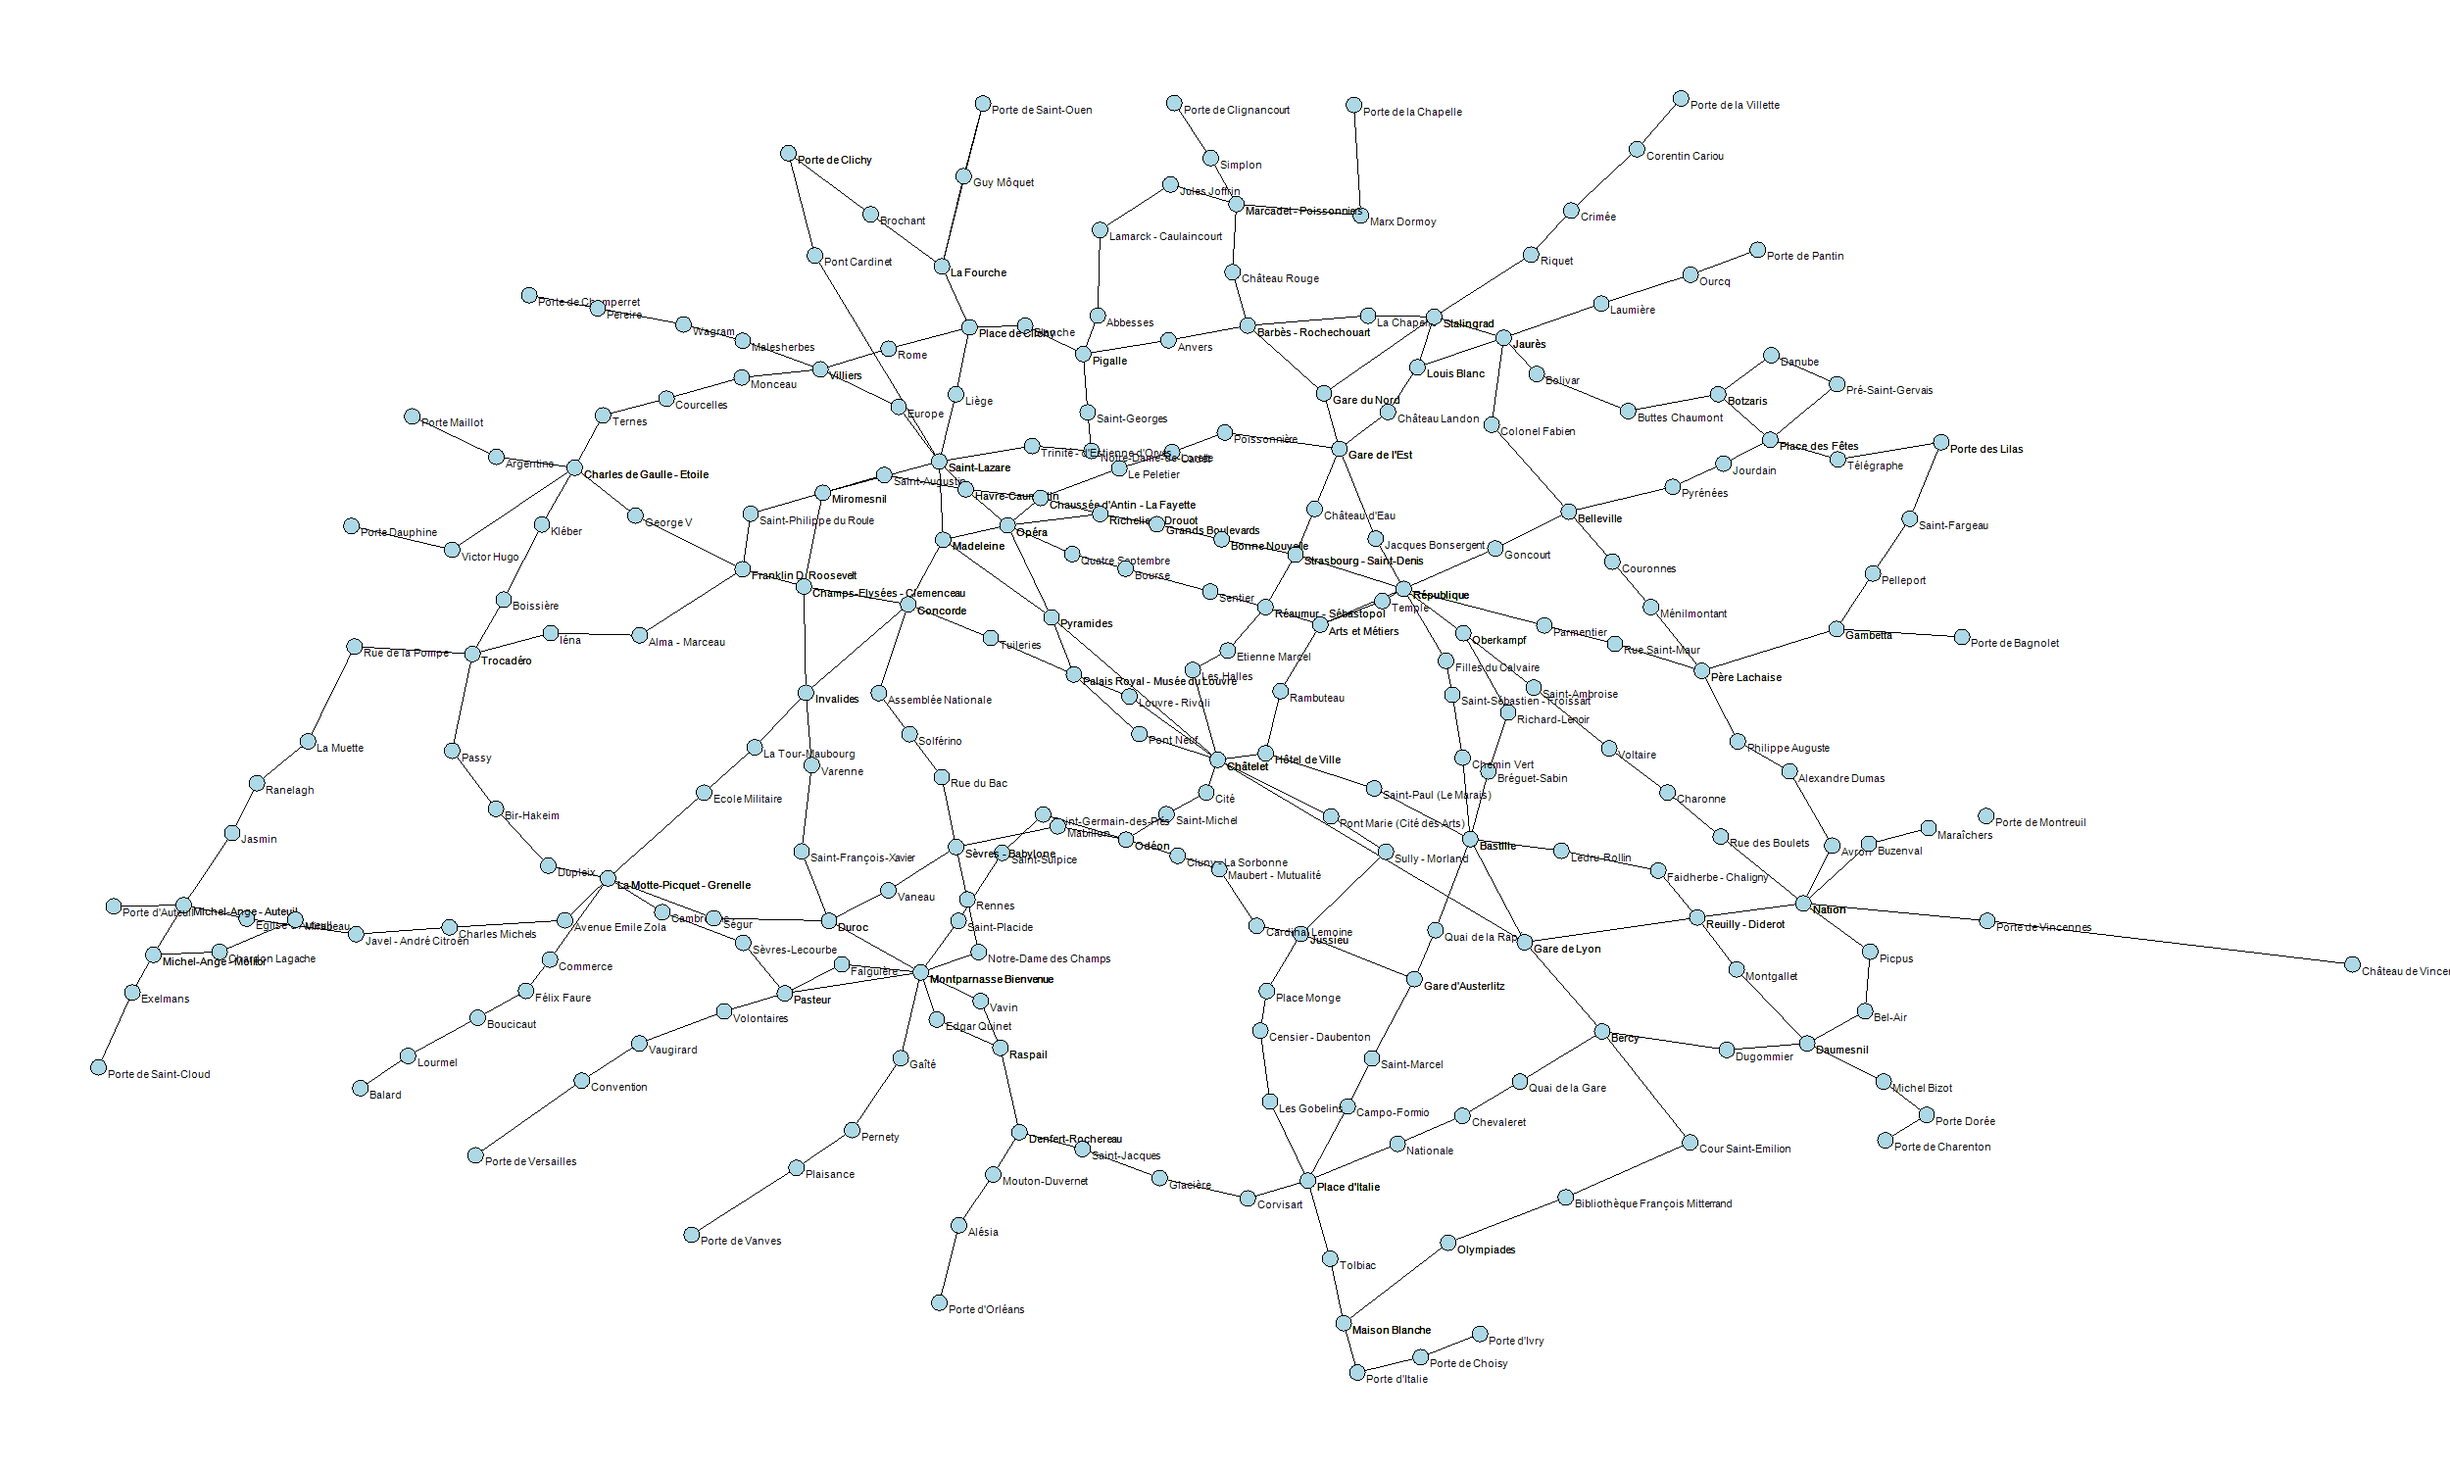
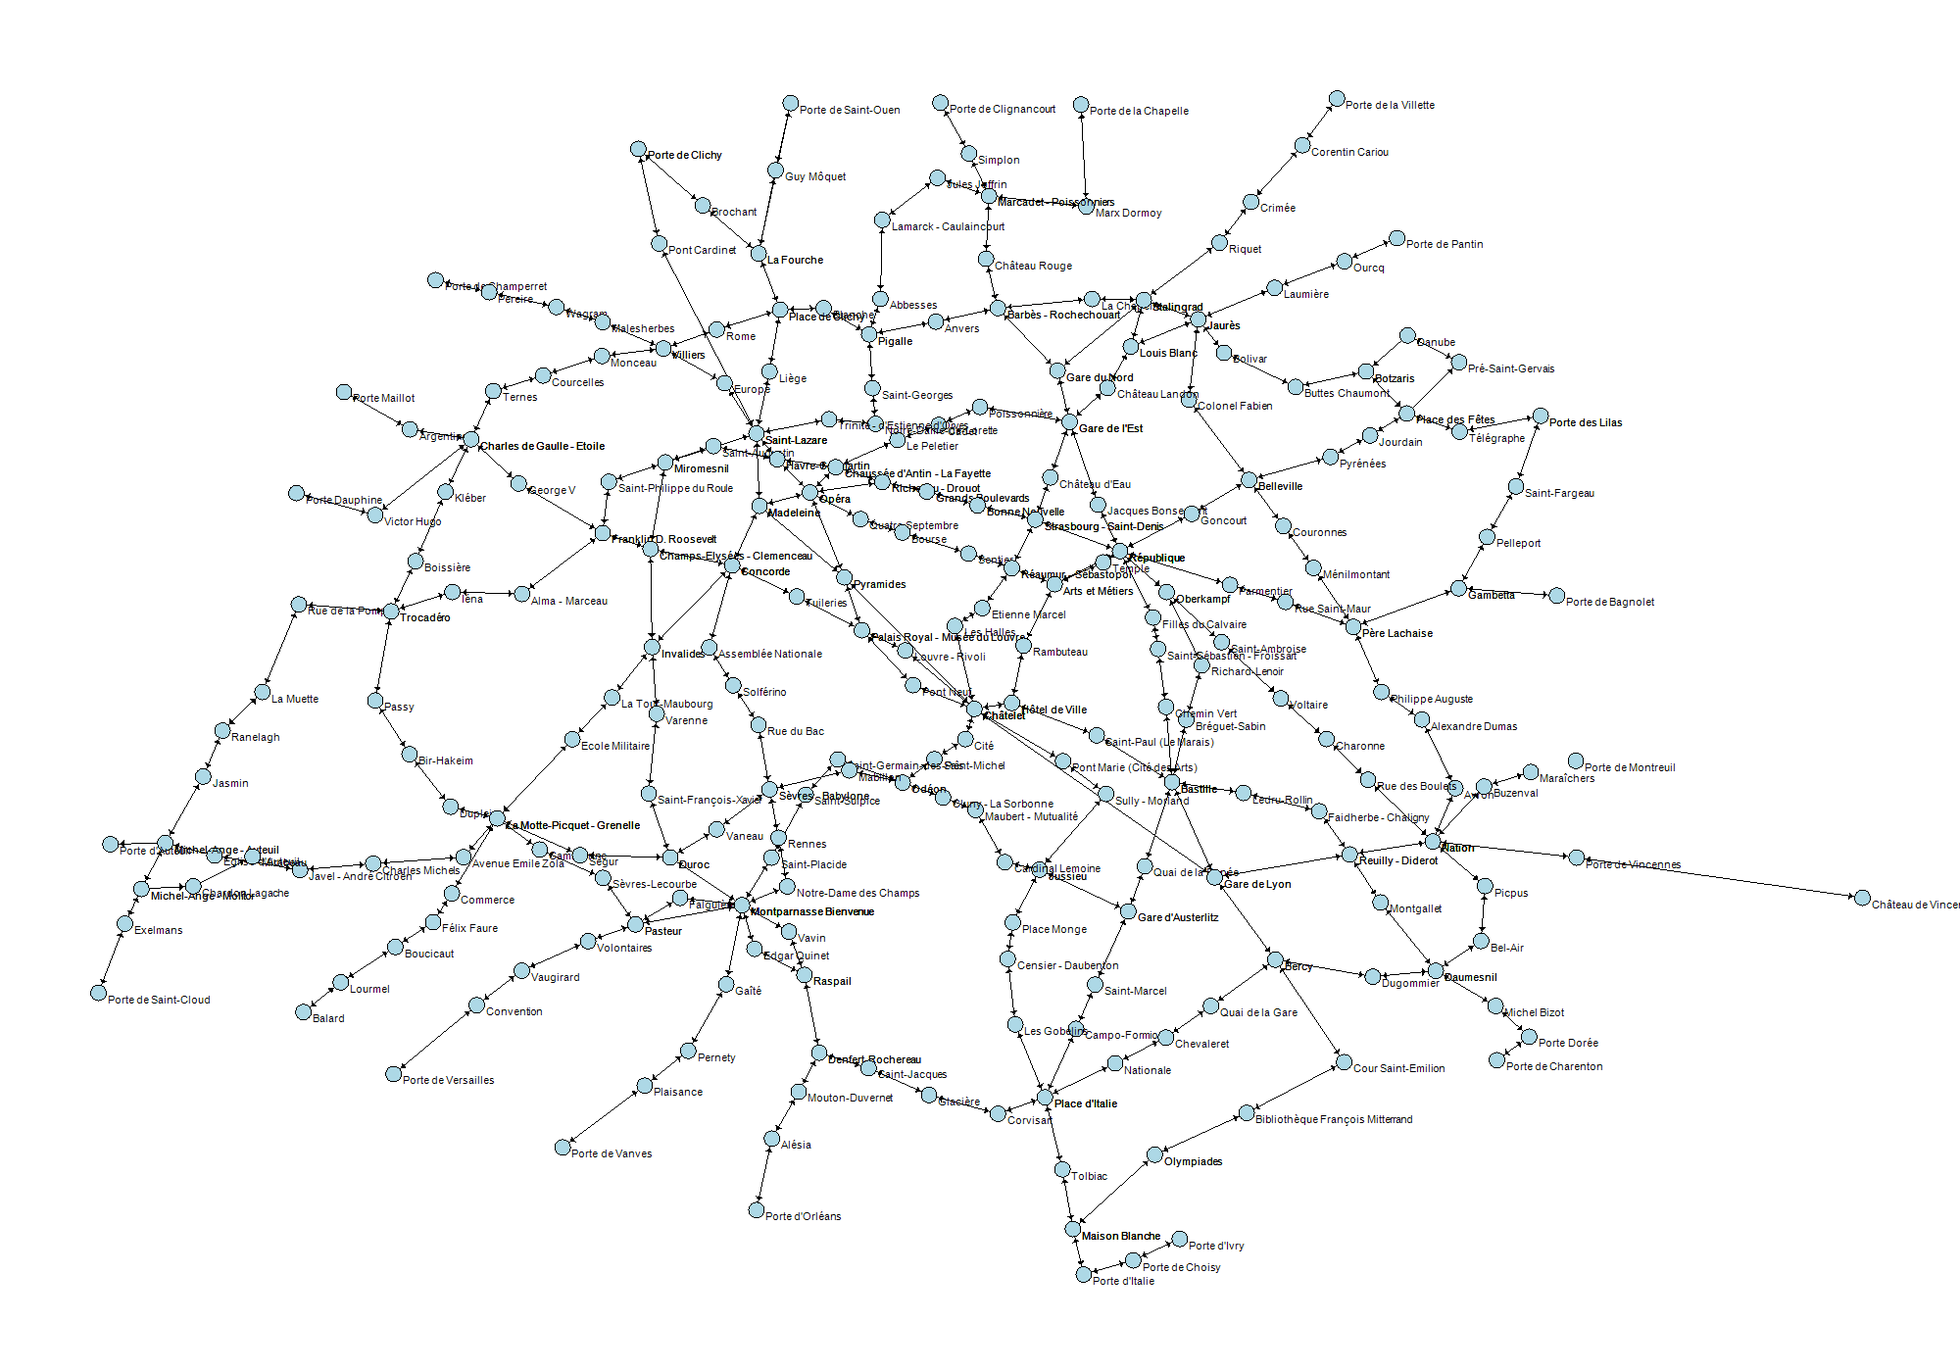
Gestion de l'orientation des graphes (cas de la ligne 7bis / 10)

diff --git a/PSI_RENDU1/GrapheVisualisation.cs b/PSI_RENDU1/GrapheVisualisation.cs
@@ -4,12 +4,13 @@ using System.Diagnostics;
 using System.Drawing;
 using System.Linq;
 using System.Windows.Forms;
+using System.Drawing.Drawing2D;
 namespace PSI_RENDU1
 {
 
-    public class GrapheVisualisation
+   public class GrapheVisualisation
 {
-    public static void GenererImageGraphe<T>(Graphe<T> graphe, string outputPath = "graphe.png", int width = 2500, int height = 1500)
+    public static void GenererImageGraphe<T>(Graphe<T> graphe, string outputPath = "graphe.png", int width = 2000, int height = 1400)
     {
         try
         {
@@ -31,19 +32,20 @@ namespace PSI_RENDU1
             double minLong = longitudes.Min();
             double maxLong = longitudes.Max();
 
-            // 🧭 Marges autour du graphe
             float marginX = 100;
             float marginY = 100;
 
             double scaleX = (width - 2 * marginX) / (maxLong - minLong);
             double scaleY = (height - 2 * marginY) / (maxLat - minLat);
+            double offsetX = (width - (maxLong - minLong) * scaleX) / 2;
+            double offsetY = (height - (maxLat - minLat) * scaleY) / 2;
 
             Dictionary<T, PointF> positions = new Dictionary<T, PointF>();
 
             foreach (var noeud in graphe.Noeuds.Values)
             {
-                float x = marginX + (float)((noeud.Longitude - minLong) * scaleX);
-                float y = marginY + (float)((maxLat - noeud.Latitude) * scaleY);
+                float x = (float)((noeud.Longitude - minLong) * scaleX + offsetX);
+                float y = (float)((maxLat - noeud.Latitude) * scaleY + offsetY);
                 positions[noeud.Id] = new PointF(x, y);
             }
 
@@ -52,6 +54,28 @@ namespace PSI_RENDU1
                 PointF p1 = positions[lien.Source.Id];
                 PointF p2 = positions[lien.Destination.Id];
                 g.DrawLine(lienPen, p1, p2);
+
+                if (graphe.EstOriente)
+                {
+                    float dx = p2.X - p1.X;
+                    float dy = p2.Y - p1.Y;
+                    float longueur = (float)Math.Sqrt(dx * dx + dy * dy);
+                    if (longueur == 0) continue;
+
+                    float ux = dx / longueur;
+                    float uy = dy / longueur;
+
+                    float arrowX = p2.X - ux * 10;
+                    float arrowY = p2.Y - uy * 10;
+
+                    PointF[] fleche =
+                    {
+                        new PointF(arrowX, arrowY),
+                        new PointF(arrowX - uy * 4 - ux * 4, arrowY + ux * 4 - uy * 4),
+                        new PointF(arrowX + uy * 4 - ux * 4, arrowY - ux * 4 - uy * 4)
+                    };
+                    g.FillPolygon(Brushes.Black, fleche);
+                }
             }
 
             foreach (var noeud in graphe.Noeuds.Values)
@@ -79,4 +103,5 @@ namespace PSI_RENDU1
         }
     }
 }
+
 }

diff --git a/PSI_RENDU1/LecteurExcel.cs b/PSI_RENDU1/LecteurExcel.cs
@@ -40,39 +40,40 @@ public static class LecteurExcel
     return resultats;
 }
 
-    public static List<(int source, int destination, double poids, bool sensUnique)> LireArcs(string cheminFichier)
+    public static List<(int, int, double, bool)> LireArcs(string cheminFichier)
+{
+    var arcs = new List<(int, int, double, bool)>();
+    using var classeur = new XLWorkbook(cheminFichier);
+    var feuille = classeur.Worksheet("Arcs");
+
+    foreach (var ligne in feuille.RowsUsed().Skip(1))
     {
-        var resultats = new List<(int, int, double, bool)>();
-
-        using (var workbook = new XLWorkbook(cheminFichier))
+        try
         {
-            var feuille = workbook.Worksheet("Arcs");
+            string sourceStr = ligne.Cell(1).GetString().Trim();
+            string destStr = ligne.Cell(4).GetString().Trim();
+            string poidsStr = ligne.Cell(5).GetString().Trim();
+            string sensStr = ligne.Cell(7).GetString().Trim().ToLower();
 
-            foreach (var ligne in feuille.RowsUsed().Skip(1))
-            {
-                try
-                {
-                    string sourceStr = ligne.Cell(1).GetString().Trim();  // colonne A
-                    string destStr = ligne.Cell(4).GetString().Trim();    // colonne D
-                    string poidsStr = ligne.Cell(5).GetString().Trim();   // colonne E
-                    string sensStr = ligne.Cell(7).GetString().Trim().ToLower(); // colonne G
+            if (string.IsNullOrEmpty(sourceStr) || string.IsNullOrEmpty(destStr) || string.IsNullOrEmpty(poidsStr))
+                continue;
 
-                    if (!int.TryParse(sourceStr, out int source)) continue;
-                    if (!int.TryParse(destStr, out int destination)) continue;
-                    if (!double.TryParse(poidsStr, NumberStyles.Float, CultureInfo.InvariantCulture, out double poids)) poids = 1;
+            int source = int.Parse(sourceStr);
+            int destination = int.Parse(destStr);
+            double poids = double.Parse(poidsStr, CultureInfo.InvariantCulture);
+            bool sensUnique = sensStr == "oui";
 
-                    bool sensUnique = sensStr == "oui";
-                    resultats.Add((source, destination, poids, sensUnique));
-                }
-                catch (Exception ex)
-                {
-                    Console.WriteLine($"⚠ Erreur de lecture arc : {ex.Message}");
-                }
-            }
+            arcs.Add((source, destination, poids, sensUnique));
         }
-
-        return resultats;
+        catch (Exception ex)
+        {
+            Console.WriteLine($"⚠ Erreur de lecture arc : {ex.Message}");
+        }
     }
+
+    return arcs;
+}
+
 
     public static List<(int, int)> TrouverCorrespondances(List<(int id, string nom, double, double)> noeuds)
 {

diff --git a/PSI_RENDU1/Graphe.cs b/PSI_RENDU1/Graphe.cs
@@ -25,6 +25,7 @@ namespace PSI_RENDU1
         }
         public Dictionary<T, Noeud<T>> Noeuds => noeuds;
         public List<Lien<T>> Liens => liens;
+        public bool EstOriente { get; set; } = true;
 
         public void AjouterNoeud(T id, string nom = "", double longitude = 0, double latitude = 0)
         {
